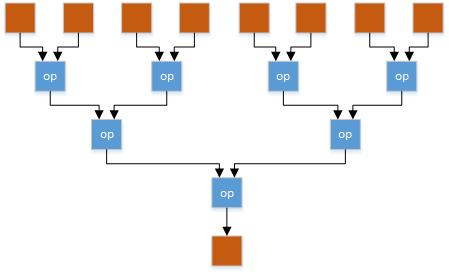
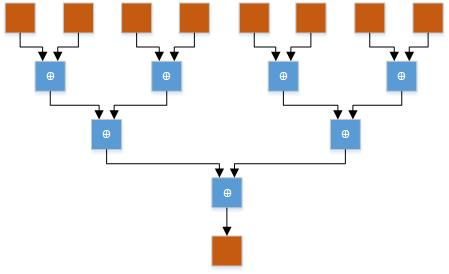
changes to master and reduction

diff --git a/doc/content/reduction.tex b/doc/content/reduction.tex
@@ -1,2 +1,35 @@
-The reduction pattern combines all to the element in an array to a single element using an reduction operator. In order for the reduction to work properly the operator must satisfy a couple of properties: 
-1. The operator is a two-to-one 
+One of the most used patterns in parallel computing is the reduction. The reduction combines all elements in an array to a single element using an reduction operator. This can for example be used to calculate the sum or product of an array. In order for the reduction to happen the reduction operator must be both binary and associative. Binary means that the operator is two-to-one, combining two element to one. Associative means that the order of which operations are performed does not effect the result. So for any operator $\oplus$ \cref{eq:al_associative} must hold.
+
+\begin{equation} 
+\label{eq:al_associative}
+	(a \oplus b) \oplus c = a \oplus (b \oplus c)
+\end{equation}
+
+
+
+\begin{figure}[ht]
+	\centering
+	\fbox{
+		\includegraphics[width=0.6\textwidth]{figs/algorithm/reduce_serial.jpg}}
+	\caption{TBD}
+	\label{fig:reduce_serial}
+\end{figure}
+
+
+
+\begin{figure}[ht]
+	\centering
+	\fbox{
+		\includegraphics[width=0.6\textwidth]{figs/algorithm/reduce_parallel.jpg}}
+	\caption{TBD}
+	\label{fig:reduce_parallel}
+\end{figure}
+
+
+\begin{figure}[ht]
+	\centering
+	\fbox{
+		\includegraphics[width=0.6\textwidth]{figs/algorithm/reduce_parallel_example.jpg}}
+	\caption{TBD}
+	\label{fig:reduce_parallel_example}
+\end{figure}

diff --git a/doc/master.tex b/doc/master.tex
@@ -9,6 +9,8 @@
 \usepackage[hidelinks]{hyperref}
 \usepackage{graphicx}
 \usepackage{pdflscape}
+\usepackage{amsmath}
+\usepackage{cleveref}
 %\usepackage{oz} % conflicts with siunitx
 \usepackage{float}
 \usepackage{titlesec}
